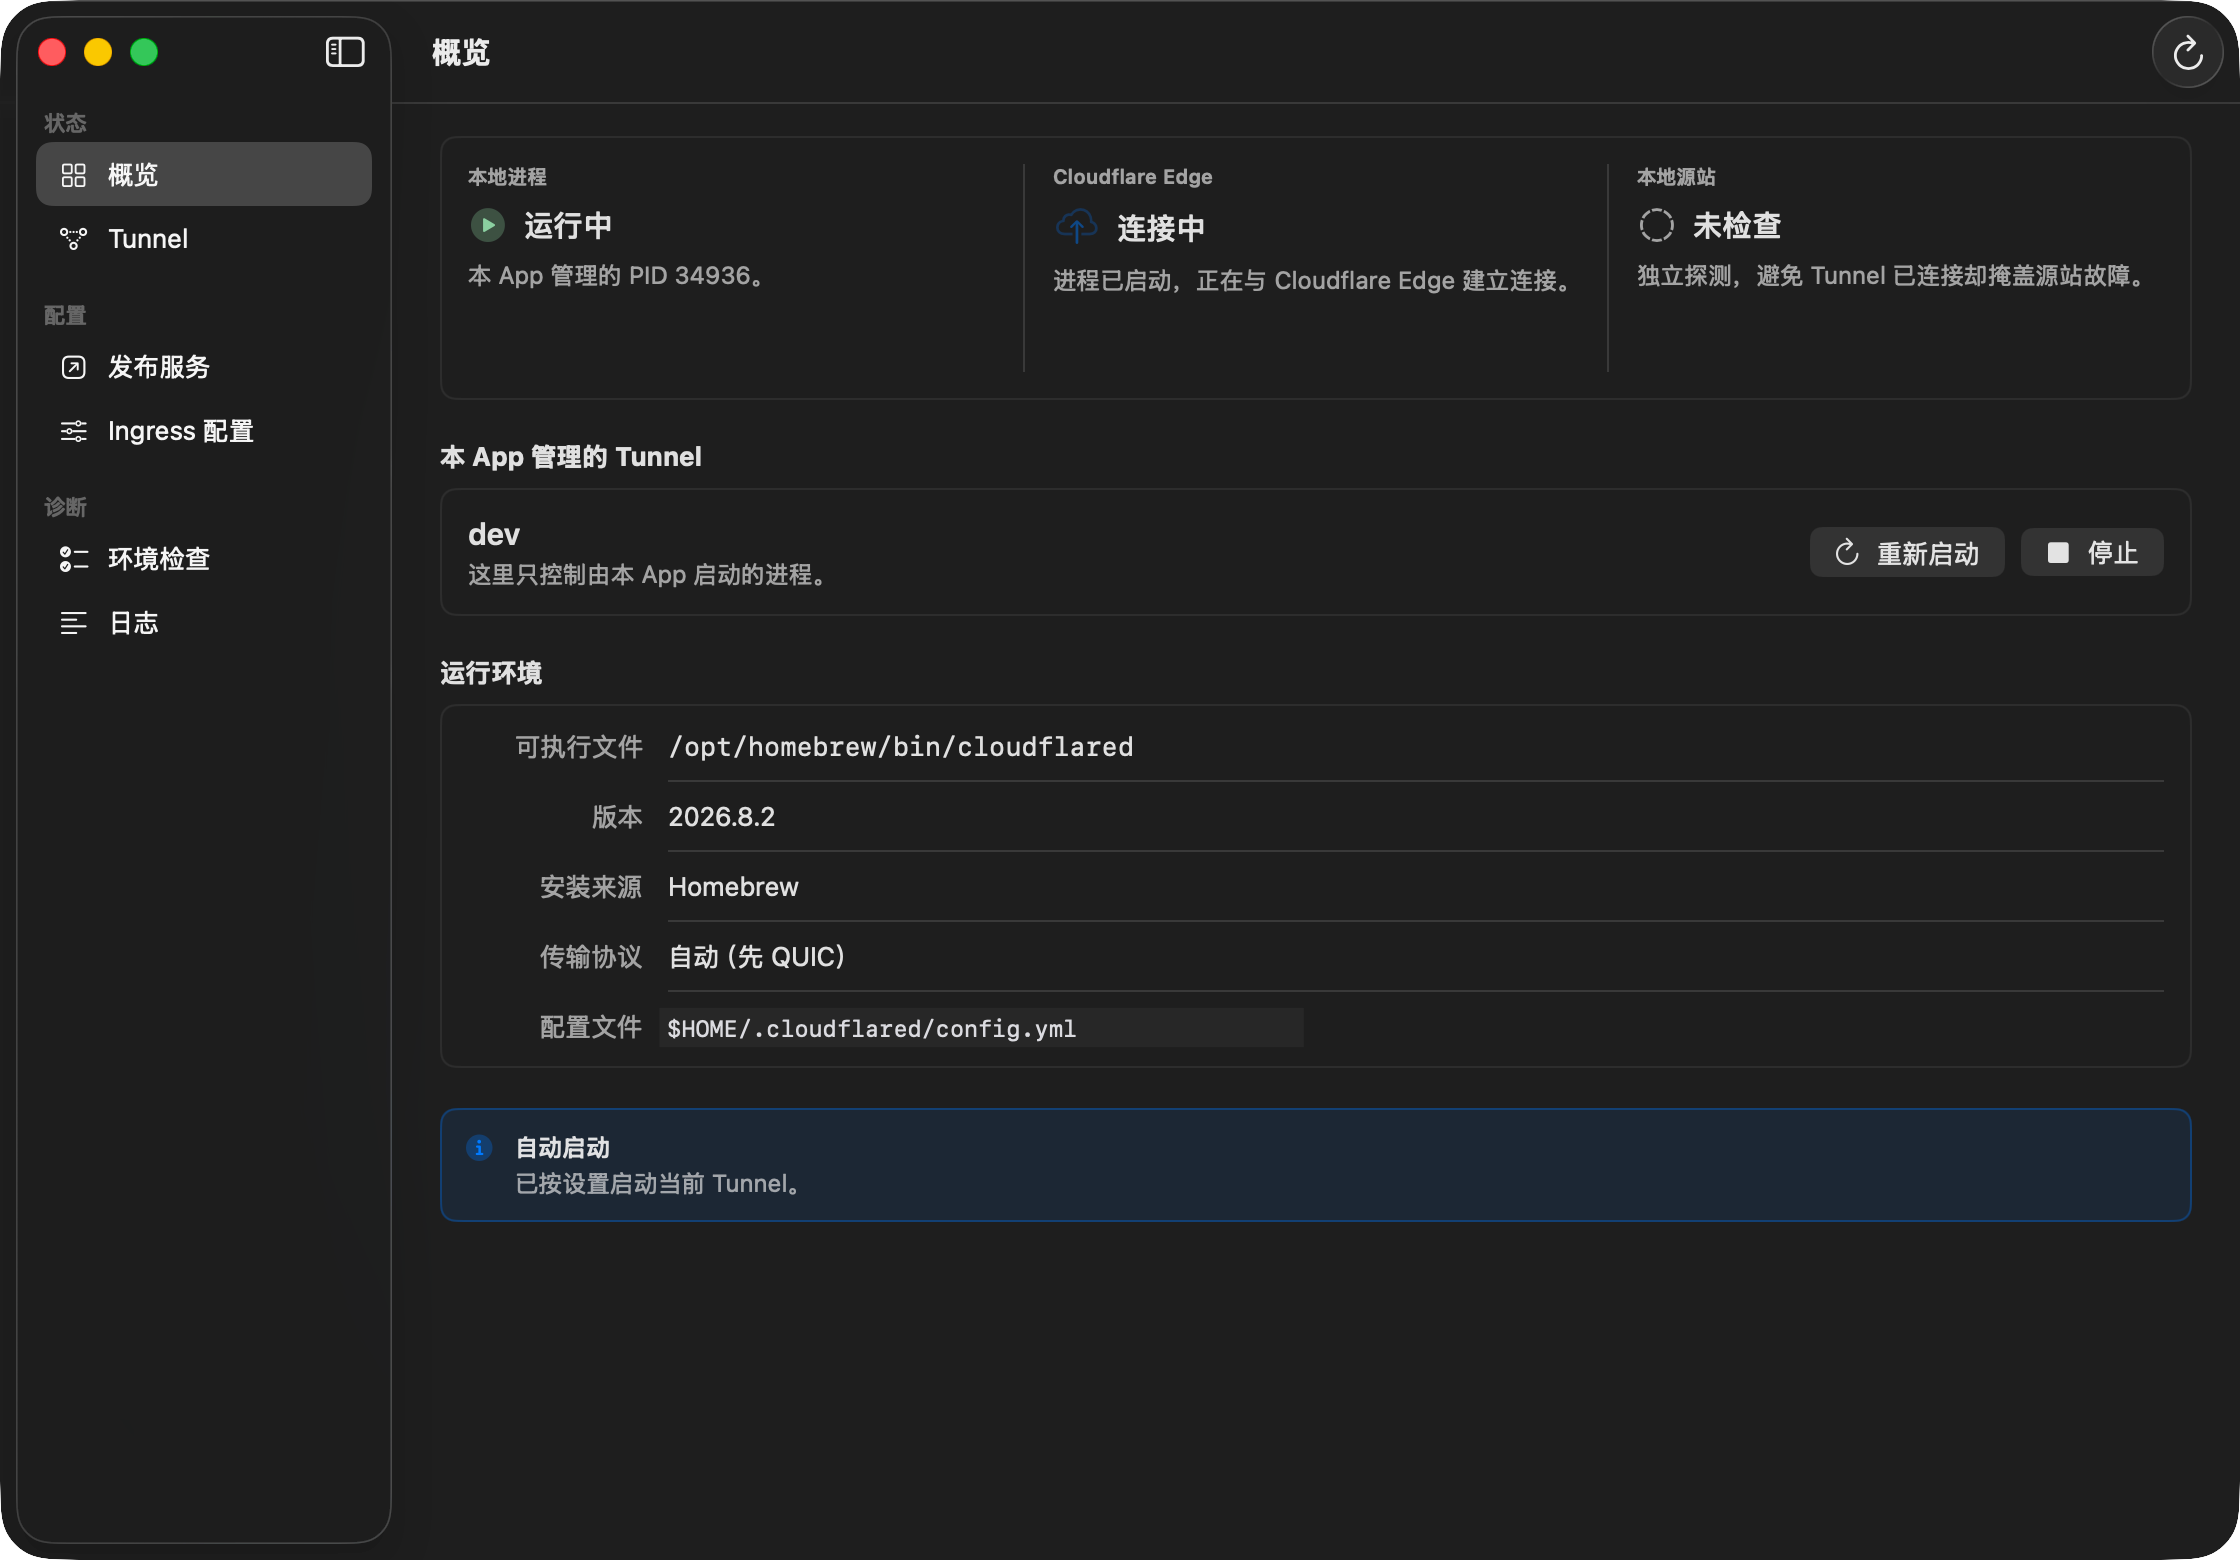
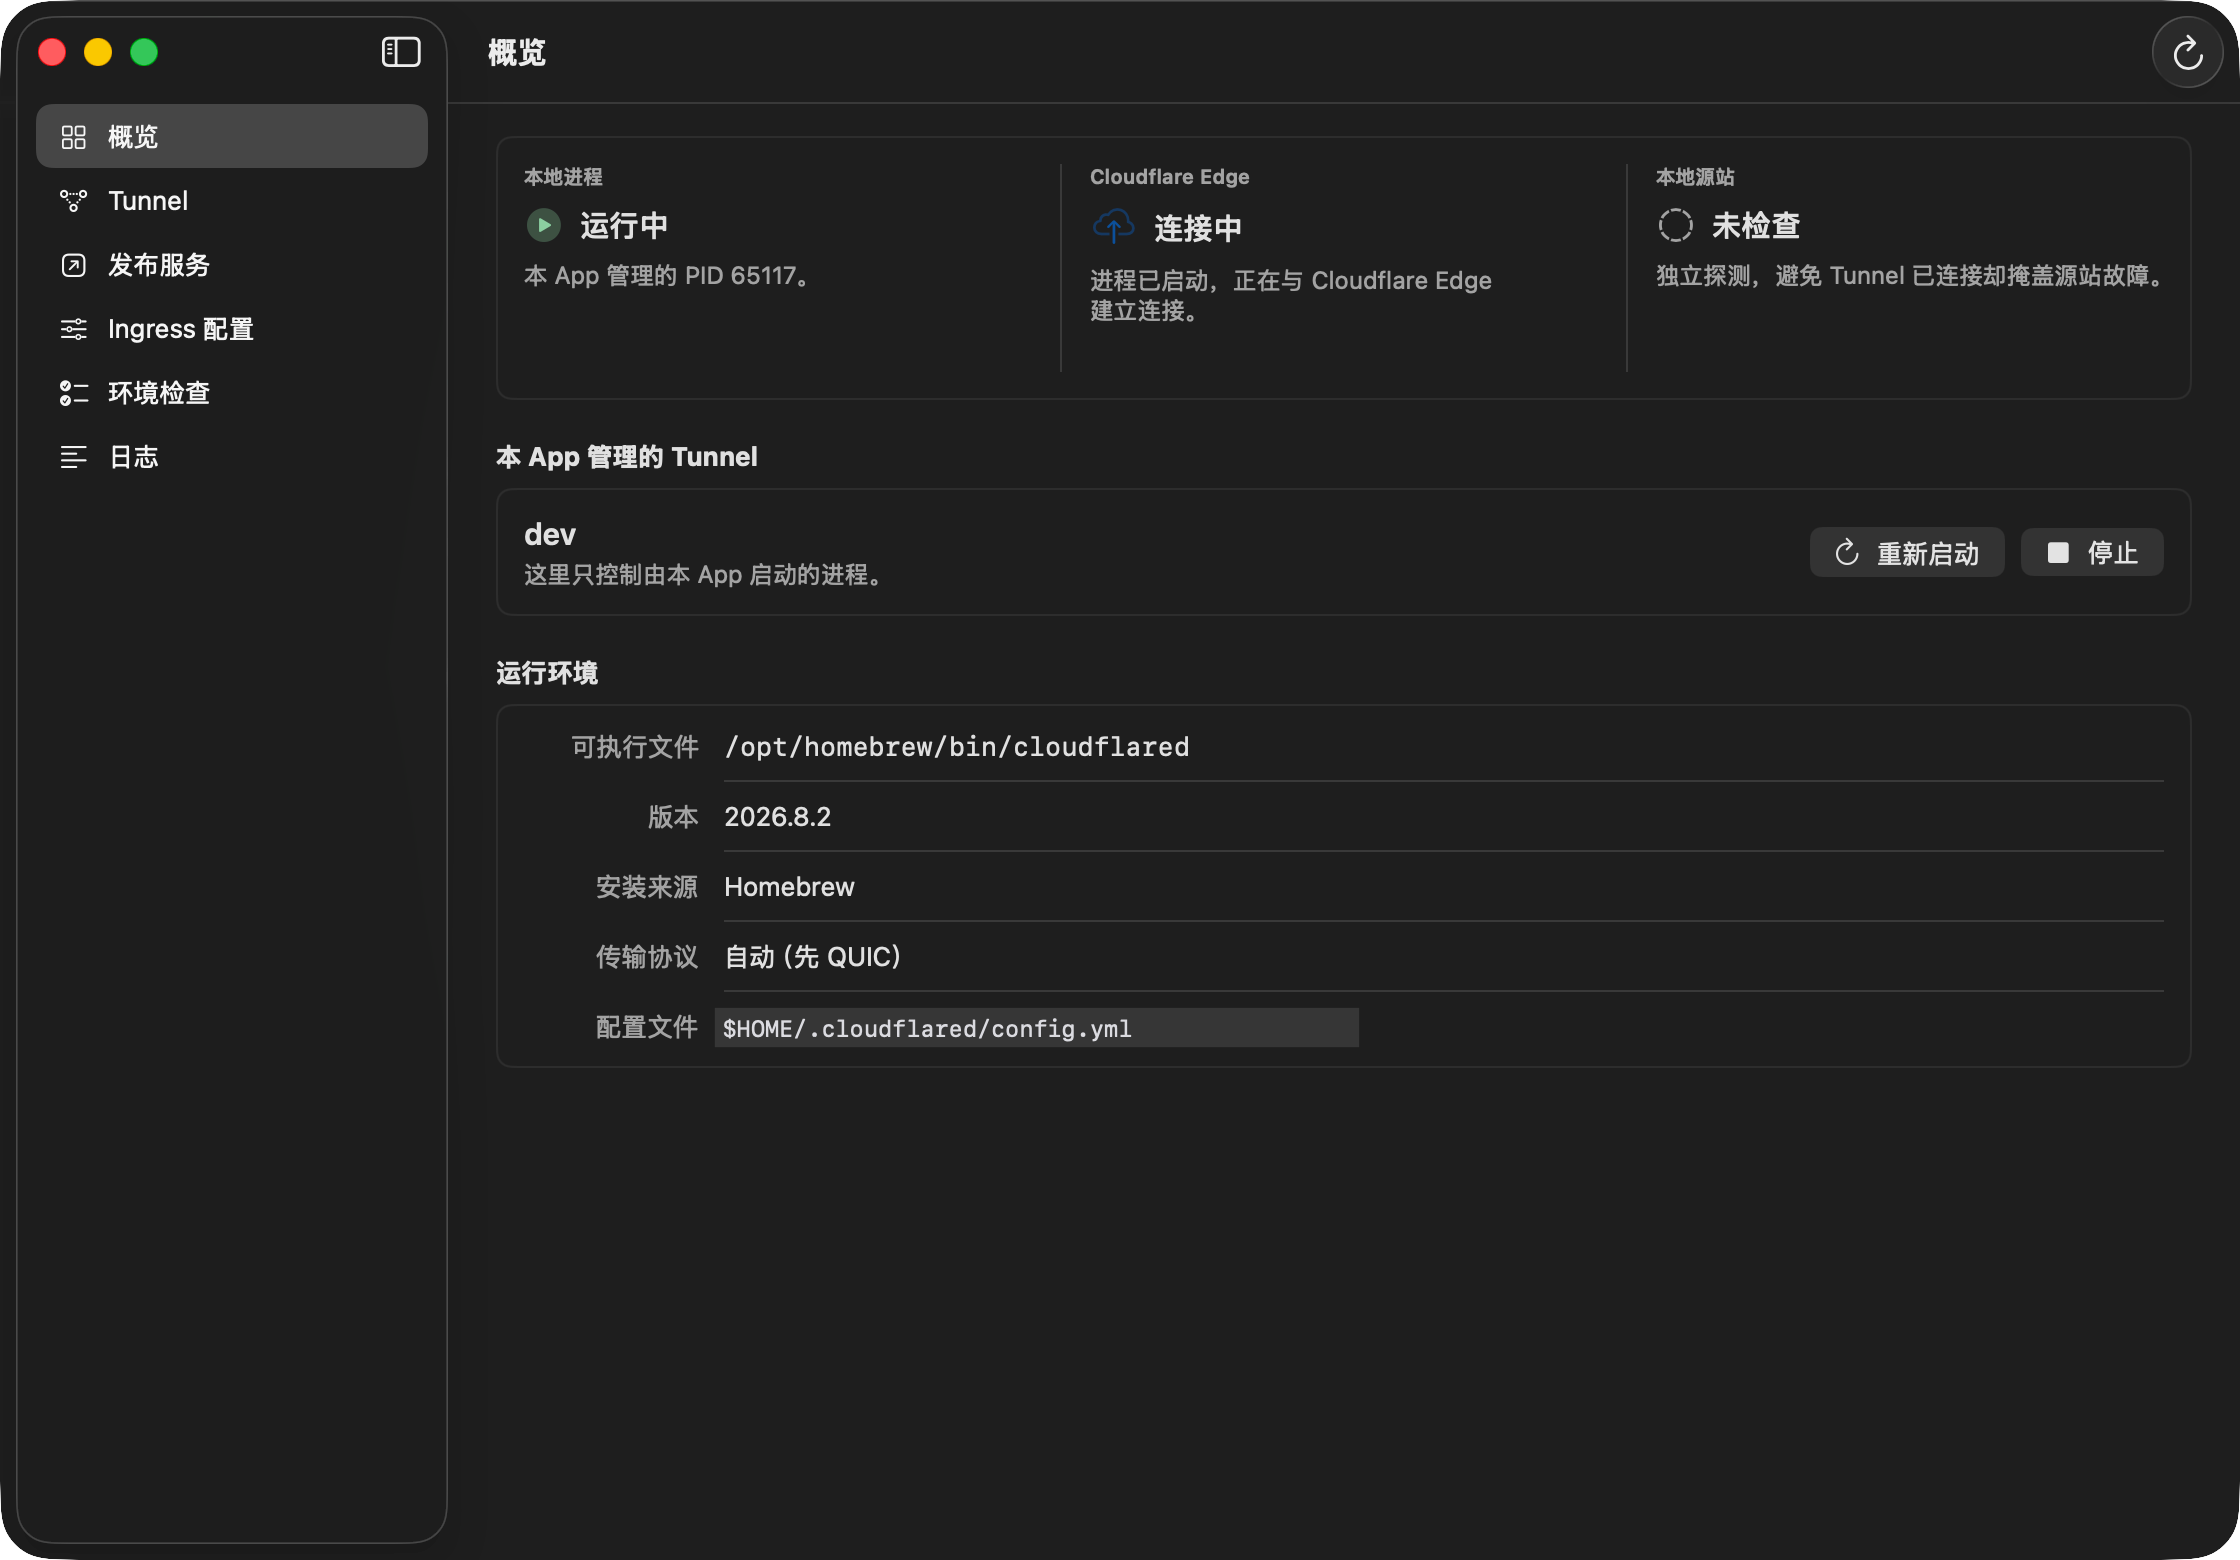
feat: 替换发布 Tunnelful 0.1.9
侧栏改回扁平列表，官网产品图去掉描边，并更新主窗口截图。

diff --git a/app/TunnelApp/UI/RootView.swift b/app/TunnelApp/UI/RootView.swift
@@ -33,22 +33,6 @@ enum AppSection: String, CaseIterable, Identifiable {
     }
 }
 
-private enum SidebarGroup: String, CaseIterable, Identifiable {
-    case status = "状态"
-    case setup = "配置"
-    case diagnostics = "诊断"
-
-    var id: Self { self }
-
-    var sections: [AppSection] {
-        switch self {
-        case .status: return [.overview, .tunnels]
-        case .setup: return [.publish, .configuration]
-        case .diagnostics: return [.environment, .logs]
-        }
-    }
-}
-
 struct RootView: View {
     @EnvironmentObject private var model: AppModel
     @Environment(\.openWindow) private var openWindow
@@ -56,18 +40,12 @@ struct RootView: View {
 
     var body: some View {
         NavigationSplitView {
-            List(selection: $selection) {
-                ForEach(SidebarGroup.allCases) { group in
-                    Section(group.rawValue) {
-                        ForEach(group.sections) { section in
-                            Label(section.rawValue, systemImage: section.symbol)
-                                .tag(section)
-                                .help(section.subtitle)
-                                .accessibilityLabel(section.rawValue)
-                                .accessibilityHint(section.subtitle)
-                        }
-                    }
-                }
+            List(AppSection.allCases, selection: $selection) { section in
+                Label(section.rawValue, systemImage: section.symbol)
+                    .tag(section)
+                    .help(section.subtitle)
+                    .accessibilityLabel(section.rawValue)
+                    .accessibilityHint(section.subtitle)
             }
             .listStyle(.sidebar)
             .scrollIndicators(.never)

diff --git a/design-qa.md b/design-qa.md
@@ -8,7 +8,7 @@
 
 ## 当前界面
 
-0.1.9 采用六项原生侧栏：概览、Tunnel、发布服务、Ingress 配置、环境检查和日志，当前项使用系统强调色选中。主窗口只保留页面导航与当前页面操作；“关于 Tunnelful”“设置…”和帮助入口位于屏幕顶部的 macOS 系统菜单，避免在窗口工具栏重复出现。主窗口工具栏不再放置隐私遮罩开关。滚动条可滚但不显示轨道。
+0.1.9 采用六项扁平原生侧栏：概览、Tunnel、发布服务、Ingress 配置、环境检查和日志，当前项使用系统强调色选中。主窗口只保留页面导航与当前页面操作；“关于 Tunnelful”“设置…”和帮助入口位于屏幕顶部的 macOS 系统菜单，避免在窗口工具栏重复出现。主窗口工具栏不再放置隐私遮罩开关。滚动条可滚但不显示轨道。
 
 浅色与深色实现均沿用同一信息结构：本地进程、Cloudflare Edge、源站状态、当前 Tunnel 与运行环境。窗口关闭后应用仍常驻菜单栏，Dock 中不显示额外图标。状态只出现在概览内容里，不再在窗口底栏重复。标题栏与侧栏使用系统材质。
 

diff --git a/.github/release-notes/0.1.9.md b/.github/release-notes/0.1.9.md
@@ -4,8 +4,9 @@ Tunnelful `0.1.9` 继续支持 Apple 芯片与 Intel Mac，最低系统版本为
 
 ## 本次变化
 
+- 侧栏改回扁平列表，「概览」紧挨窗口按钮，不再使用状态/配置/诊断分组。
 - 外接鼠标时也会隐藏系统传统滚动条，页面仍可滚动，不再露出右侧轨道。
-- 更新官网、README 与设计校验中的浅色/深色主窗口截图，去掉截图圆角外的白边。
+- 更新官网、README 与设计校验中的浅色/深色主窗口截图；官网产品图去掉描边。
 
 ## 下载 Tunnelful 0.1.9
 

diff --git a/app/design-qa.md b/app/design-qa.md
@@ -5,6 +5,6 @@
 - 浅色实际窗口：`../design/actual-app.png`
 - 深色实际窗口：`../design/actual-app-dark.png`
 - 官网公开截图：`tunnelful-window-v0.1.9.png` / `tunnelful-window-dark-v0.1.9.png`（2240 × 1560，路径已替换为 `$HOME`）
-- 主窗口：六项侧栏，不放置“设置”或“关于”按钮
+- 主窗口：六项扁平侧栏，不放置“设置”或“关于”按钮
 - 系统入口：关于、设置、更新与帮助位于 macOS 屏幕顶部菜单
 - 当前本地设计检查：通过

diff --git a/CHANGELOG.md b/CHANGELOG.md
@@ -6,8 +6,9 @@
 
 ### 变更
 
+- 侧栏改回扁平列表，「概览」紧挨窗口按钮，不再使用状态/配置/诊断分组。
 - 外接鼠标时也会隐藏系统传统滚动条，页面仍可滚动，不再露出右侧轨道。
-- 更新官网、README 与设计校验中的浅色/深色主窗口截图，去掉截图圆角外的白边。
+- 更新官网、README 与设计校验中的浅色/深色主窗口截图；官网产品图去掉描边。
 
 ### 安全与限制
 
